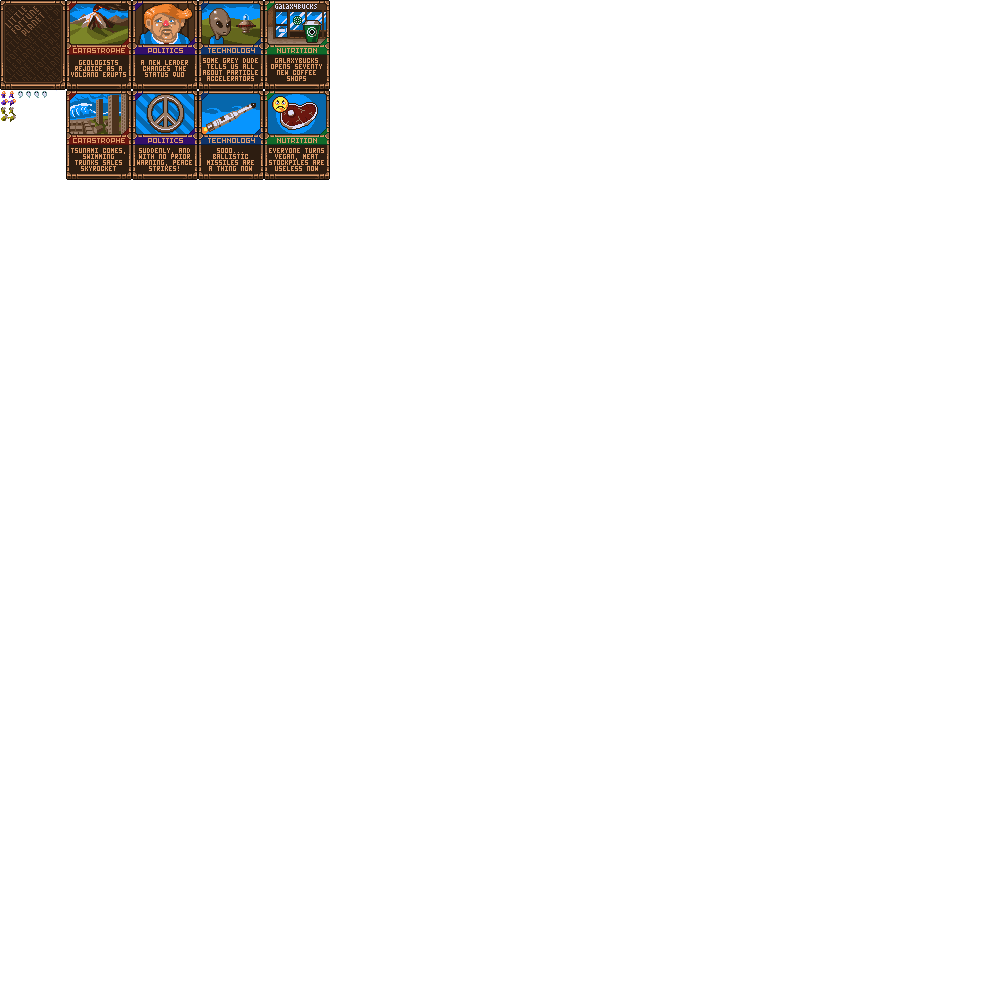
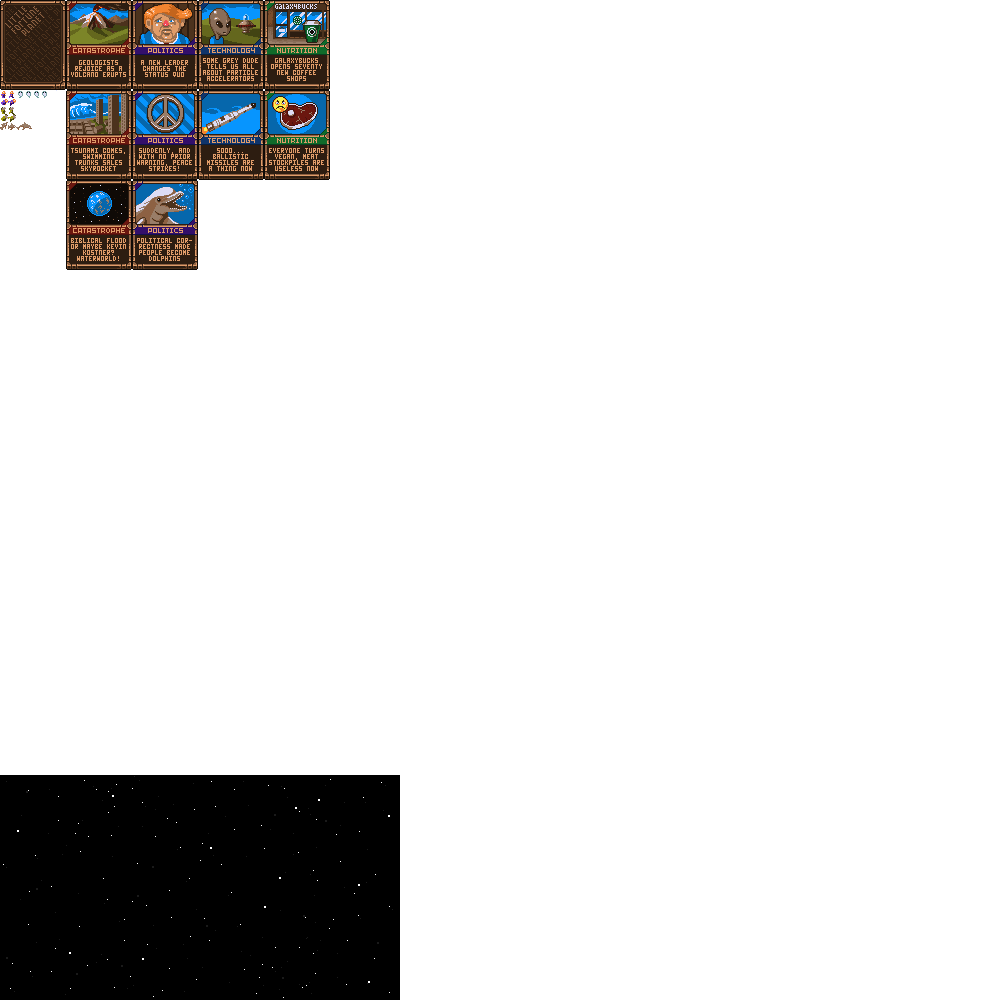
Animationsss.

Changed region(s): [[0.0, 0.775, 0.403, 1.0], [0.062, 0.155, 0.217, 0.279], [0.0, 0.124, 0.031, 0.155]]

diff --git a/core/src/net/mostlyoriginal/game/system/dilemma/CardSystem.java b/core/src/net/mostlyoriginal/game/system/dilemma/CardSystem.java
@@ -8,6 +8,9 @@ import com.badlogic.gdx.math.Interpolation;
 import com.badlogic.gdx.math.MathUtils;
 import com.badlogic.gdx.utils.Json;
 import net.mostlyoriginal.api.component.basic.Pos;
+import net.mostlyoriginal.api.component.graphics.Tint;
+import net.mostlyoriginal.api.system.graphics.RenderBatchingSystem;
+import net.mostlyoriginal.api.system.render.AnimRenderSystem;
 import net.mostlyoriginal.game.component.CardData;
 import net.mostlyoriginal.game.component.CardScript;
 import net.mostlyoriginal.game.component.G;
@@ -36,6 +39,7 @@ public class CardSystem extends FluidIteratingSystem {
     private static TransitionSystem transitionSystem;
     private CardLibrary cardLibrary;
     private GameScreenAssetSystem gameScreenAssetSystem;
+    private RenderBatchingSystem renderBatchingSystem;
 
     public CardSystem() {
         super(Aspect.all(Pos.class, PlayableCard.class, Clickable.class));
@@ -67,7 +71,7 @@ public class CardSystem extends FluidIteratingSystem {
     protected void begin() {
         super.begin();
 
-        if ( Gdx.input.isKeyJustPressed(Input.Keys.NUM_0)) {
+        if (Gdx.input.isKeyJustPressed(Input.Keys.NUM_0)) {
             dealRandomCards(1);
         }
     }
@@ -76,16 +80,25 @@ public class CardSystem extends FluidIteratingSystem {
     protected void process(E e) {
 
         e.scale(e.clickableState() == Clickable.ClickState.HOVER ? 1.2f : 1.0f);
-        e.renderLayer(e.clickableState() == Clickable.ClickState.HOVER ? 110 : 100);
+        int layer = e.clickableState() == Clickable.ClickState.HOVER ? G.LAYER_CARDS_HOVER : G.LAYER_CARDS;
+        if (e.renderLayer() != layer) {
+            e.renderLayer(layer);
+            renderBatchingSystem.sortedDirty = true;
+        }
         if (e.clickableState() == Clickable.ClickState.CLICKED) {
             e.removeClickable();
             float MOVE_DURATION = 1.5f;
-            float FINAL_CARD_SCALE = 0.2f;
+            float FINAL_CARD_SCALE = 0.4f;
+            e.physicsVr(500f).physicsFriction(0).angle().tint(Tint.WHITE);
             e.script(
                     sequence(
                             parallel(
                                     moveBetween(e.posX(), e.posY(), G.PLANET_CENTER_X - e.boundsCx() * FINAL_CARD_SCALE, G.PLANET_CENTER_Y - e.boundsCy() * FINAL_CARD_SCALE, MOVE_DURATION, Interpolation.smooth),
-                                    scaleBetween(1f, FINAL_CARD_SCALE, MOVE_DURATION, Interpolation.smooth)),
+                                    scaleBetween(1f, FINAL_CARD_SCALE, MOVE_DURATION, Interpolation.smooth),
+                                    sequence(
+                                            delay(MOVE_DURATION-0.2f),
+                                            tween(Tint.WHITE, Tint.TRANSPARENT, 0.2f)
+                                    )),
                             add(new CardScript(e.playableCardCard().script))
                     ));
         }
@@ -102,8 +115,9 @@ public class CardSystem extends FluidIteratingSystem {
                 .playableCardCard(card)
                 .bounds(0, 0, card.width, card.height)
                 .pos(x, G.CARD_Y)
+                .physics()
                 .scale(1.0f)
-                .renderLayer(100);
+                .renderLayer(G.LAYER_CARDS);
     }
 
     private static void restartGame() {

diff --git a/components/src/net/mostlyoriginal/game/component/G.java b/components/src/net/mostlyoriginal/game/component/G.java
@@ -12,7 +12,10 @@ public class G {
     public static final int SIMULATION_HEIGHT = 220 + 50;
     public static final int MARGIN_BETWEEN_CARDS = 5;
 
+    public static final int LAYER_DUDES = 99;
     public static final int LAYER_GHOST = 100;
+    public static final int LAYER_CARDS = 1000;
+    public static final int LAYER_CARDS_HOVER = 1001;
 
     public static int CAMERA_ZOOM = 2;
     public static final int SCREEN_WIDTH = SIMULATION_WIDTH * 2 * CAMERA_ZOOM;
@@ -21,7 +24,7 @@ public class G {
 
     public static int PLANET_X = (SIMULATION_WIDTH) - (SIMULATION_WIDTH / 2);
     public static int PLANET_Y = MARGIN_BETWEEN_CARD_AND_SIM + CARD_HEIGHT;
-    private static final int MARGIN_BETWEEN_SIM_AND_ROOF = 10;
+    private static final int MARGIN_BETWEEN_SIM_AND_ROOF = 20;
     public static final int SCREEN_HEIGHT = (SIMULATION_HEIGHT + CARD_HEIGHT + MARGIN_BETWEEN_CARD_AND_SIM + MARGIN_BETWEEN_SIM_AND_ROOF) * CAMERA_ZOOM;
 
     public static final int PLANET_CENTER_X = PLANET_X + (SIMULATION_WIDTH / 2);

diff --git a/core/src/net/mostlyoriginal/game/system/MyCameraSystem.java b/core/src/net/mostlyoriginal/game/system/MyCameraSystem.java
@@ -1,0 +1,36 @@
+package net.mostlyoriginal.game.system;
+
+import com.badlogic.gdx.Gdx;
+import com.badlogic.gdx.math.Interpolation;
+import net.mostlyoriginal.api.system.camera.CameraSystem;
+import net.mostlyoriginal.game.component.G;
+
+/**
+ * @author Daan van Yperen
+ */
+public class MyCameraSystem extends CameraSystem {
+
+    public static final float INTO_FOCUS_COOLDOWN = 10f;
+    float cooldown = INTO_FOCUS_COOLDOWN;
+    float y = (G.SCREEN_HEIGHT/G.CAMERA_ZOOM)/2;
+
+    public MyCameraSystem(int cameraZoom) {
+        super(cameraZoom);
+    }
+
+    @Override
+    protected void initialize() {
+        super.initialize();
+    }
+
+    @Override
+    protected void processSystem() {
+        if ( cooldown > 0 ) {
+            cooldown -= world.delta;
+            if (cooldown < 0) cooldown = 0;
+            camera.position.y = Interpolation.pow2In.apply(y,y+G.SCREEN_HEIGHT/2, cooldown / INTO_FOCUS_COOLDOWN);
+            camera.update();
+        }
+        super.processSystem();
+    }
+}

diff --git a/core/src/net/mostlyoriginal/game/screen/GameScreen.java b/core/src/net/mostlyoriginal/game/screen/GameScreen.java
@@ -18,6 +18,7 @@ import net.mostlyoriginal.api.system.render.ClearScreenSystem;
 import net.mostlyoriginal.game.GdxArtemisGame;
 import net.mostlyoriginal.game.component.G;
 import net.mostlyoriginal.game.system.DrawingSystem;
+import net.mostlyoriginal.game.system.MyCameraSystem;
 import net.mostlyoriginal.game.system.dilemma.CardScriptSystem;
 import net.mostlyoriginal.game.system.dilemma.CardSystem;
 import net.mostlyoriginal.game.system.logic.TransitionSystem;
@@ -54,7 +55,7 @@ public class GameScreen extends WorldScreen {
                         new CollisionSystem(),
                         new TransitionSystem(GdxArtemisGame.getInstance()),
 
-                        new CameraSystem(G.CAMERA_ZOOM),
+                        new MyCameraSystem(G.CAMERA_ZOOM),
                         new GameScreenAssetSystem(),
                         new GameScreenSetupSystem(),
 

diff --git a/core/src/net/mostlyoriginal/game/system/planet/PlanetRenderGravityDebugSystem.java b/core/src/net/mostlyoriginal/game/system/planet/PlanetRenderGravityDebugSystem.java
@@ -60,7 +60,7 @@ public class PlanetRenderGravityDebugSystem extends FluidIteratingSystem {
         if (cooldown <= 0) {
             cooldown = 1;
             direction = (direction + 1) % 8;
-            System.out.println(PlanetCell.directions[direction][0] + ", " + PlanetCell.directions[direction][1]);
+//            System.out.println(PlanetCell.directions[direction][0] + ", " + PlanetCell.directions[direction][1]);
         }
         for (int y = 0; y < G.SIMULATION_HEIGHT; y++) {
             for (int x = 0; x < G.SIMULATION_WIDTH; x++) {

diff --git a/core/src/net/mostlyoriginal/game/system/planet/PlanetCreationSystem.java b/core/src/net/mostlyoriginal/game/system/planet/PlanetCreationSystem.java
@@ -84,7 +84,7 @@ public class PlanetCreationSystem extends PassiveSystem {
             Vector2 source = v.set(130, 0).rotate(degrees).add(centerX, centerY);
             E.E()
                     .anim("dude")
-                    .renderLayer(1000)
+                    .renderLayer(G.LAYER_DUDES)
                     .pos(source.x + G.PLANET_X, source.y + G.PLANET_Y)
                     .angle()
                     .physics()
